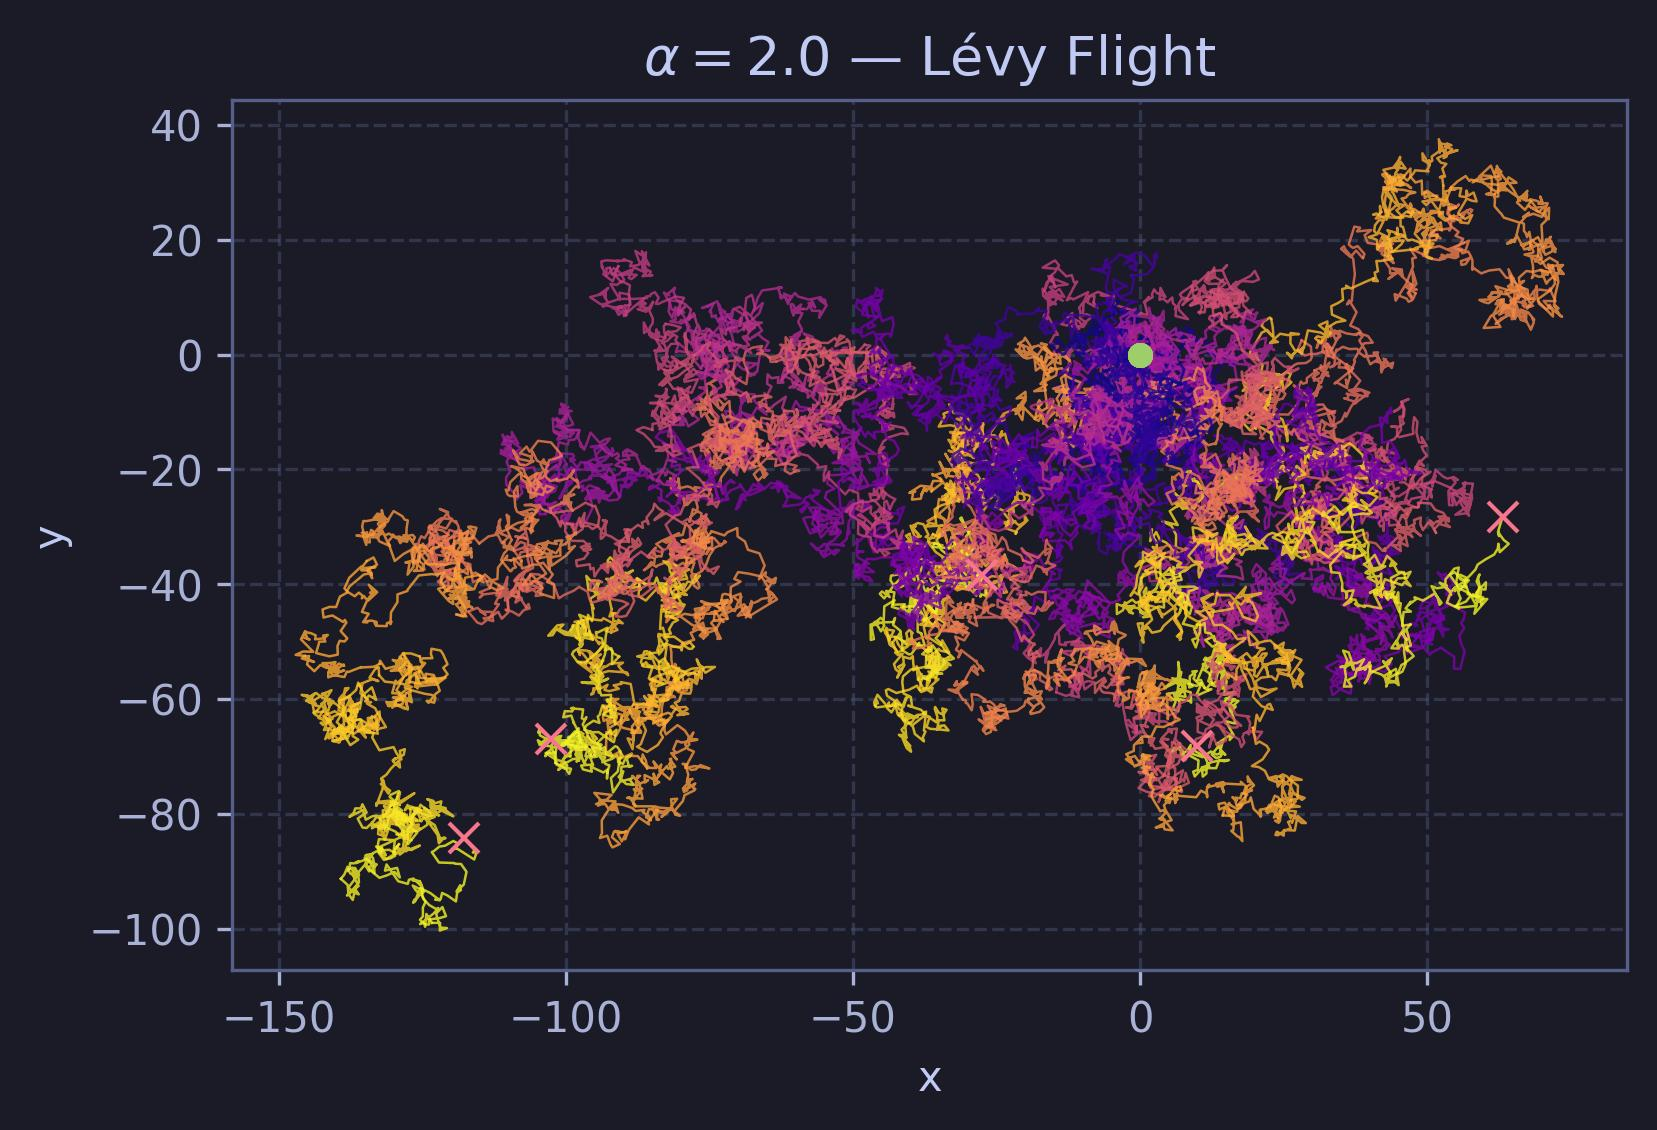
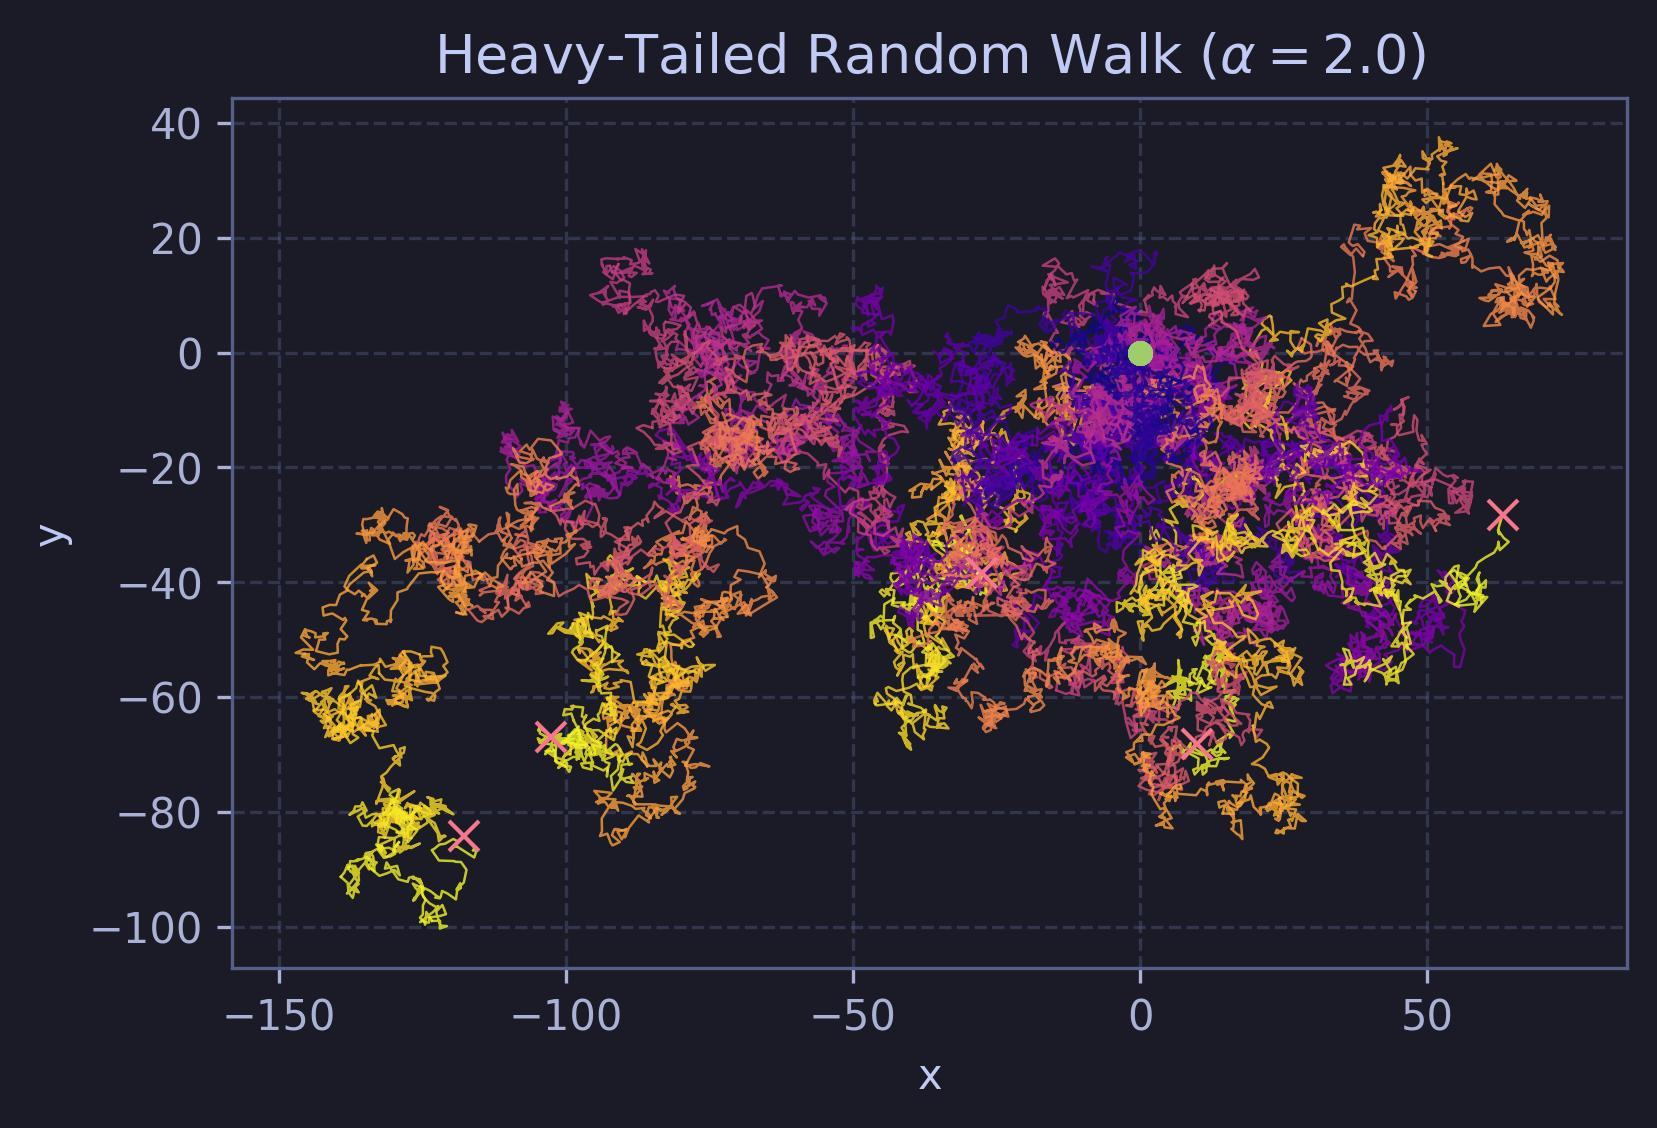
Hero: rename title to 'Heavy-Tailed Random Walk' (no em dash, no Levy mention); README: rewrite Theory section as flowing graduate-level paper

diff --git a/Generalizations; Anomalous Diffusion & Levy Flights.py b/Generalizations; Anomalous Diffusion & Levy Flights.py
@@ -414,7 +414,7 @@ class DiffusionVisualizer:
                 )
             axH.plot(x[0], y[0], "o", color=p["green"], markersize=5, zorder=5)
             axH.plot(x[-1], y[-1], "x", color=p["red"], markersize=7, zorder=5)
-        axH.set_title(f"$\\alpha = {alpha3:.1f}$ — Lévy Flight", fontsize=13)
+        axH.set_title(f"Heavy-Tailed Random Walk ($\\alpha = {alpha3:.1f}$)", fontsize=13)
         axH.set_xlabel("x")
         axH.set_ylabel("y")
         axH.set_aspect("equal", adjustable="box")

diff --git a/README.md b/README.md
@@ -65,33 +65,65 @@ Output figures (saved to `Plots/`):
 
 ## Theory
 
-### Standard Brownian Motion
+### From discrete random walks to the Wiener process
 
-For a walker taking steps of size $\pm 1$ with equal probability, the central limit theorem gives $x_\text{RMS}(t) = \sqrt{2Dt}$ with diffusion constant $D = \sigma^2 / 2$ where $\sigma^2$ is the step-size variance.
+Consider a walker on the real line taking steps $\{\xi_i\}_{i=1}^{N}$ drawn i.i.d. from a distribution with mean zero, finite variance $\sigma^2$, and arbitrary higher moments. The displacement after $N$ steps is
 
-### Anomalous Diffusion
+$$X_N \;=\; \sum_{i=1}^{N} \xi_i,$$
 
-The generalized MSD scaling $\langle \Delta x^2 \rangle \sim t^\alpha$ classifies diffusion regimes:
+with mean $\langle X_N \rangle = 0$ and variance $\langle X_N^2 \rangle = N\sigma^2$. The classical central limit theorem guarantees that the rescaled sum $X_N / \sqrt{N}$ converges weakly to a Gaussian, so in the diffusive scaling $t = N\Delta t,\; x = X_N\sqrt{\Delta t}$ the walker's position becomes a Wiener process $W(t)$ in the limit $N \to \infty,\, \Delta t \to 0$ with $D \equiv \sigma^2/(2\Delta t)$ held fixed. The probability density $\rho(x, t)$ satisfies the diffusion equation
 
-$$\alpha < 1: \text{ subdiffusion} \quad \alpha = 1: \text{ normal} \quad \alpha > 1: \text{ superdiffusion}$$
+$$\partial_t \rho \;=\; D\,\partial_x^2 \rho, \qquad \rho(x,0) = \delta(x),$$
 
-For fBm with Hurst exponent $H$, $\alpha = 2H$. The autocovariance of the increments (fractional Gaussian noise) is:
+whose fundamental solution is the heat kernel $\rho(x,t) = (4\pi D t)^{-1/2}\exp(-x^2/4Dt)$, yielding the canonical scaling $\langle x^2(t)\rangle = 2Dt$. The first script in this repository fits this law (and a power-law generalisation) to the simulated trajectory of a mixed-step walker; deviations of the fitted exponent from $1/2$ flag departures from the Gaussian universality class.
 
-$$\gamma(k) = \tfrac{1}{2}\bigl(|k+1|^{2H} - 2|k|^{2H} + |k-1|^{2H}\bigr)$$
+### Anomalous diffusion and fractional Brownian motion
 
-which is negative for $H < 0.5$ (anti-persistent, subdiffusive) and positive for $H > 0.5$ (persistent, superdiffusive).
+The Gaussian universality class is fragile. Whenever step correlations decay too slowly, or step variance diverges, the linear-in-time MSD law breaks. We summarise the resulting regimes by the scaling
 
-### Lévy Flights
+$$\bigl\langle [x(t) - x(0)]^2 \bigr\rangle \;\sim\; t^{\alpha}, \qquad \alpha \in (0, 2],$$
 
-For step-size distributions with power-law tails $P(x) \sim |x|^{-(1+\alpha)}$, $\alpha \in (0, 2)$, the variance diverges and the central limit theorem is replaced by the generalized stable-law limit theorem. The characteristic function is $\hat{P}(k) = e^{-|k|^\alpha}$.
+with $\alpha < 1$ subdiffusion (trapping, viscoelastic media), $\alpha = 1$ ordinary diffusion, and $\alpha > 1$ superdiffusion (long flights, active transport). A clean parametric family realising every $\alpha \in (0, 2)$ is fractional Brownian motion $B_H(t)$, the unique zero-mean Gaussian process with stationary increments and the covariance
 
-### Ornstein-Uhlenbeck Process
+$$\bigl\langle B_H(t)\, B_H(s)\bigr\rangle \;=\; \tfrac{1}{2}\bigl(|t|^{2H} + |s|^{2H} - |t - s|^{2H}\bigr), \qquad H \in (0, 1),$$
 
-The OU process solves the Langevin equation:
+so that $\langle B_H(t)^2\rangle = t^{2H}$ and consequently $\alpha = 2H$. Differencing on a unit lattice produces fractional Gaussian noise with autocovariance
 
-$$dX = -\theta(X - \mu)\,dt + \sigma\,dW$$
+$$\gamma(k) \;=\; \tfrac{1}{2}\bigl(|k+1|^{2H} - 2|k|^{2H} + |k-1|^{2H}\bigr),$$
 
-yielding a Gaussian stationary distribution $\mathcal{N}(\mu,\, \sigma^2/2\theta)$. Unlike free Brownian motion, the variance saturates rather than growing without bound, making OU a canonical model for mean-reverting fluctuations (interest rates, velocity in a fluid, thermal noise in a harmonic trap).
+negative for $H < 1/2$ (anti-persistent, locally reversing), zero for $H = 1/2$ (independent Wiener increments), and positive with the slow $k^{2H-2}$ tail for $H > 1/2$ (long-range dependence). We synthesise exact sample paths via the Davies-Harte circulant embedding: the symmetric Toeplitz covariance matrix is diagonalised by the discrete Fourier transform, allowing $\mathcal{O}(N \log N)$ generation of length-$N$ trajectories with the prescribed spectrum.
+
+### Heavy-tailed steps and the generalised central limit theorem
+
+Even when increments are independent, finite variance is essential to the Gaussian limit; relaxing it leads to the second universality class. If step sizes are drawn from a symmetric distribution with the asymptotic tail
+
+$$P(|\xi| > x) \;\sim\; C\, x^{-\alpha}, \qquad 0 < \alpha < 2,$$
+
+the variance diverges and the classical central limit theorem fails. The Gnedenko-Kolmogorov generalised central limit theorem guarantees instead that suitably normalised sums $X_N / N^{1/\alpha}$ converge to a symmetric $\alpha$-stable random variable $S_\alpha$ with characteristic function
+
+$$\mathbb{E}\bigl[e^{ikS_\alpha}\bigr] \;=\; \exp(-c|k|^{\alpha}),$$
+
+reducing to the Gaussian case at $\alpha = 2$ and to the Cauchy distribution at $\alpha = 1$. The corresponding continuous-time process is a Lévy flight: trajectories are dominated by rare large jumps, the spatial density develops algebraic tails $\rho(x, t) \sim t / |x|^{1+\alpha}$, and the MSD is formally infinite for $\alpha < 2$ even though pseudo-MSDs computed from finite samples appear to scale superdiffusively as $\sim t^{2/\alpha}$. The hero figure shows three trajectories at $\alpha = 2.0$, the boundary case where the stable law collapses back onto the Wiener process; smaller $\alpha$ values produce the characteristic clusters-and-jumps morphology that distinguishes Lévy transport from ordinary diffusion in foraging ecology, plasma turbulence, and disordered solids.
+
+### Confined diffusion: the Ornstein-Uhlenbeck process
+
+The two preceding regimes share unbounded growth of the position; many physical settings instead constrain the walker through a restoring force. The minimal model is the overdamped Langevin equation
+
+$$dX_t \;=\; -\theta\,(X_t - \mu)\,dt \;+\; \sigma\, dW_t,$$
+
+with mean-reversion rate $\theta > 0$, equilibrium $\mu$, and diffusion amplitude $\sigma$. The associated Fokker-Planck equation
+
+$$\partial_t \rho \;=\; \theta\,\partial_x\bigl[(x - \mu)\rho\bigr] \;+\; \tfrac{\sigma^2}{2}\,\partial_x^2 \rho$$
+
+admits the closed-form transition density (Mehler kernel)
+
+$$\rho(x, t \,|\, x_0, 0) \;=\; \mathcal{N}\!\left(\mu + (x_0 - \mu) e^{-\theta t},\;\; \frac{\sigma^2}{2\theta}\bigl(1 - e^{-2\theta t}\bigr)\right),$$
+
+whose stationary limit is the Boltzmann-Gibbs distribution $\mathcal{N}(\mu, \sigma^2/2\theta)$ for a harmonic potential $V(x) = \tfrac{1}{2}\theta(x - \mu)^2$ at temperature $k_B T = \sigma^2/2$ (fluctuation-dissipation). On timescales $t \ll \theta^{-1}$ the process is indistinguishable from free Brownian motion with diffusion constant $D = \sigma^2/2$; on timescales $t \gg \theta^{-1}$ the variance saturates at $\sigma^2/2\theta$ and the autocovariance decays as $\langle X_t X_0\rangle - \mu^2 = (\sigma^2/2\theta)\, e^{-\theta t}$. We integrate the SDE with the exact discretisation that samples directly from the Mehler kernel rather than the first-order Euler-Maruyama scheme, eliminating discretisation bias regardless of step size.
+
+### Synthesis
+
+The four processes simulated here trace the boundary of the Wiener universality class in two orthogonal directions: temporal correlations (fBm) and step-size tails (Lévy flights), with the Ornstein-Uhlenbeck process furnishing the bounded counterpoint. The unified MSD comparison plot shows all three departures from the linear law on a single log-log axis, making the geometric origin of $\alpha = 2H$, $\alpha = 2/\alpha_\text{stable}$, and the OU plateau visible at a glance.
 
 ---
 
